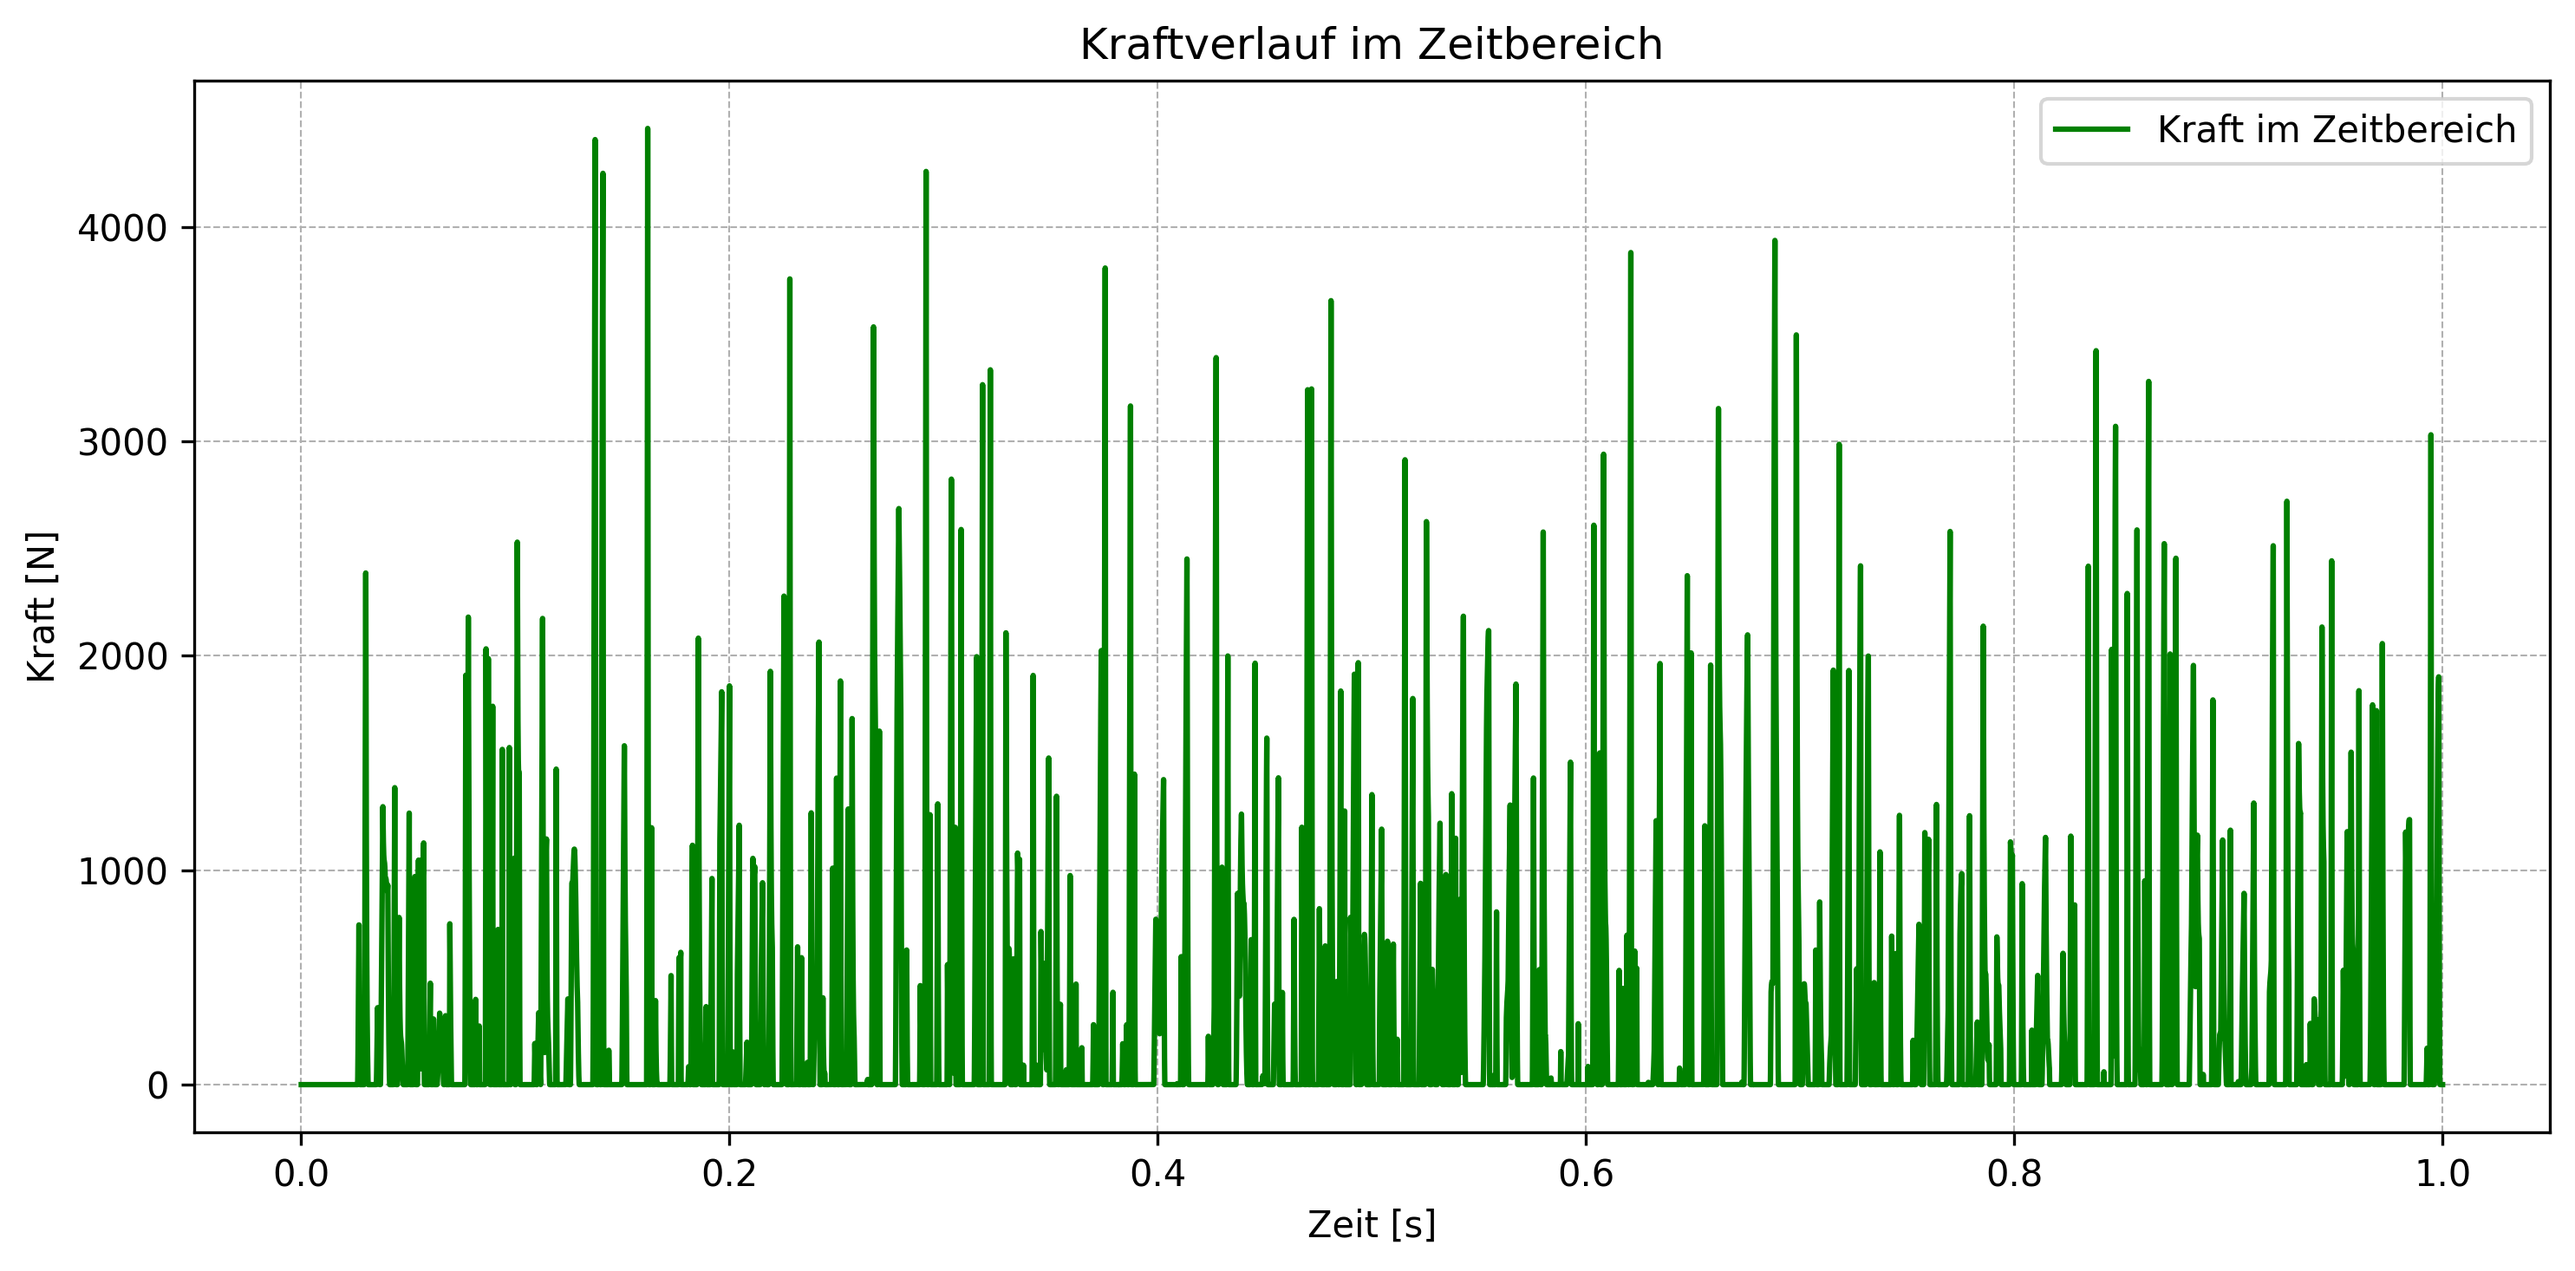
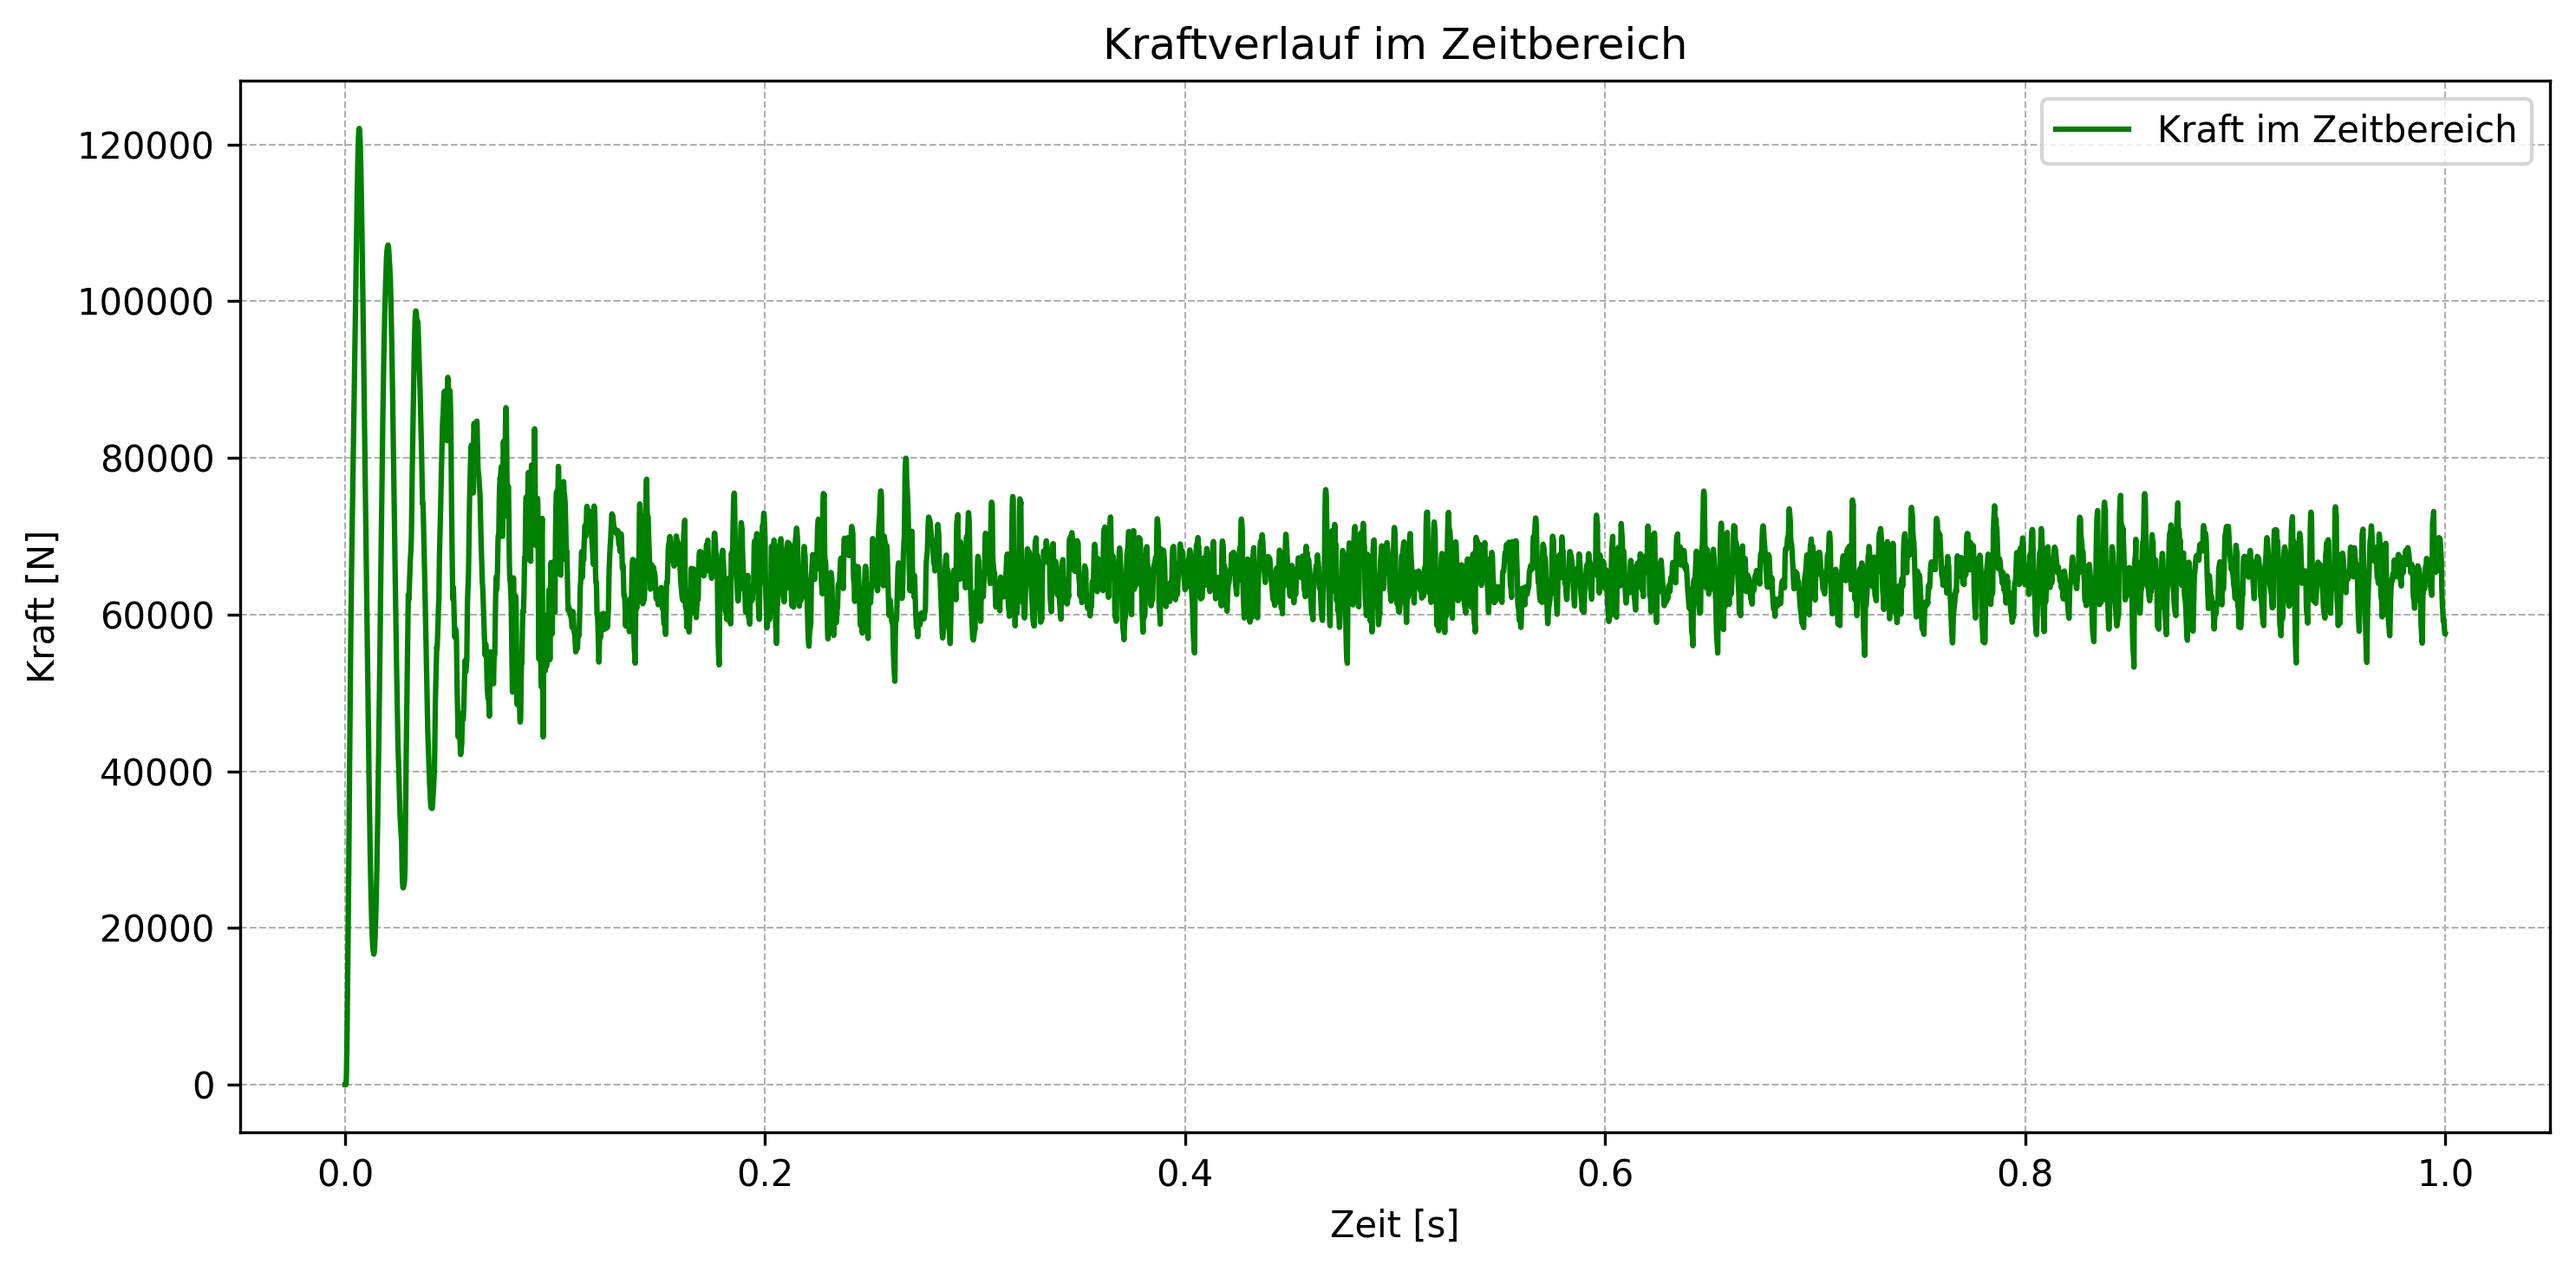
wheel dynamic with only preload

diff --git a/rolland/deflection.py b/rolland/deflection.py
@@ -174,6 +174,12 @@ class DeflectionEBBVertic(Deflection):
         # create empty force array with length equal to number of DOFs (2*nx)
         f_vec = zeros(2 * self.discr.nx)
 
+
+        # ramp_fraction = self.excit.ramp_fraction
+        # n = self.discr.nt
+        # init_period = int(ramp_fraction * n)-1
+
+
         wheel_ID = 0
         for pos in excitation_pos:
             if self.excit.use_contact_model:
@@ -188,7 +194,6 @@ class DeflectionEBBVertic(Deflection):
                 C           = ((2*(1-nu))/(G*np.sqrt(Ra)))**(2/3) * alpha
 
                 for i in range(max_iter):
-
                     # Calculate rail deflection, roughness, and wheel deflection
                     y_r = self.interpolate(pos, u1)                     # Interpolated rail deflection at excitation point
                     y_s = self.interpolate(pos, self.excit.roughness)   # Interpolated track roughness at excitation point
@@ -229,15 +234,15 @@ class DeflectionEBBVertic(Deflection):
             f_vec[lower_idx] += force * weight_lower
             f_vec[upper_idx] += force * weight_upper
 
-
+            preload = self.excit.force_amplitude  # Preload force, can be adjusted based on actual preload conditions
             M_w = 600  # Mass of the wheel, NOTE: can be adjusted based on actual wheel mass
             d_w = 2e4  # Wheel damping, NOTE: can be adjusted based on actual wheel damping
             k_w = 1e8   # Wheel stiffness, NOTE: can be adjusted based on actual wheel stiffness
             # d_w = 0
             # k_w = 0
             # update wheel deflection, velocity, and acceleration
-            self.wheel_acceleration[wheel_ID][t] = (force - k_w*self.wheel_deflection[wheel_ID][t-1] - d_w*self.wheel_velocity[wheel_ID][t-1]) / M_w
-            
+            self.wheel_acceleration[wheel_ID][t] = (force - preload) / M_w
+
             self.wheel_velocity[wheel_ID][t] = self.wheel_velocity[wheel_ID][t-1] + self.wheel_acceleration[wheel_ID][t] * self.discr.dt
             self.wheel_deflection[wheel_ID][t] = self.wheel_deflection[wheel_ID][t-1] + self.wheel_velocity[wheel_ID][t] * self.discr.dt
 

diff --git a/Moving_Force.py b/Moving_Force.py
@@ -45,14 +45,14 @@ starting_position         = 80.0    # Starting position [m]
 num_mount                 = 400     # Number of discrete mounting positions
 distance                  = 0.6     # Distance between sleepers [m]
 l_bound                   = 40.0    # Width of boundary domain
-req_simt                  = 1       # Required simulation time [s]
 dt                        = 2.2e-5  # Time step [s]
 velocities                = [60]    # Velocities to simulate [m/s] NOTE: always give a list, even for a single velocity
 ramp_fraction             = 0.1     # Fraction of total time for ramp up (affects velocity and force)
 static_force              = 65000.0 # Static force amplitude [N]
-cut_initial               = 10000   # Number of initial time steps to cut for frequency response calculation, to remove ramp-up effects
 freq_limit                = 2000
 
+req_simt                    = 1       # Required simulation time [s]
+cut_initial                 = 10000   # Number of initial time steps to cut
 use_precalculated_results   = False
 use_contact_model           = True
 
